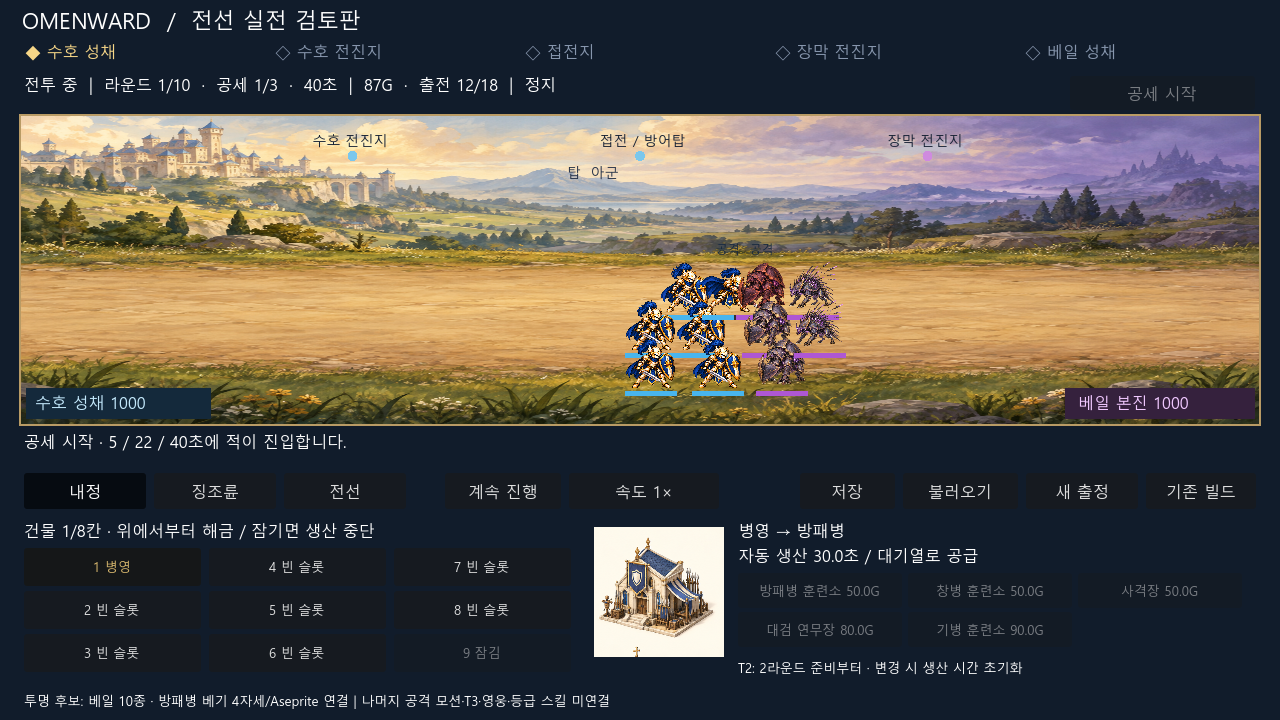
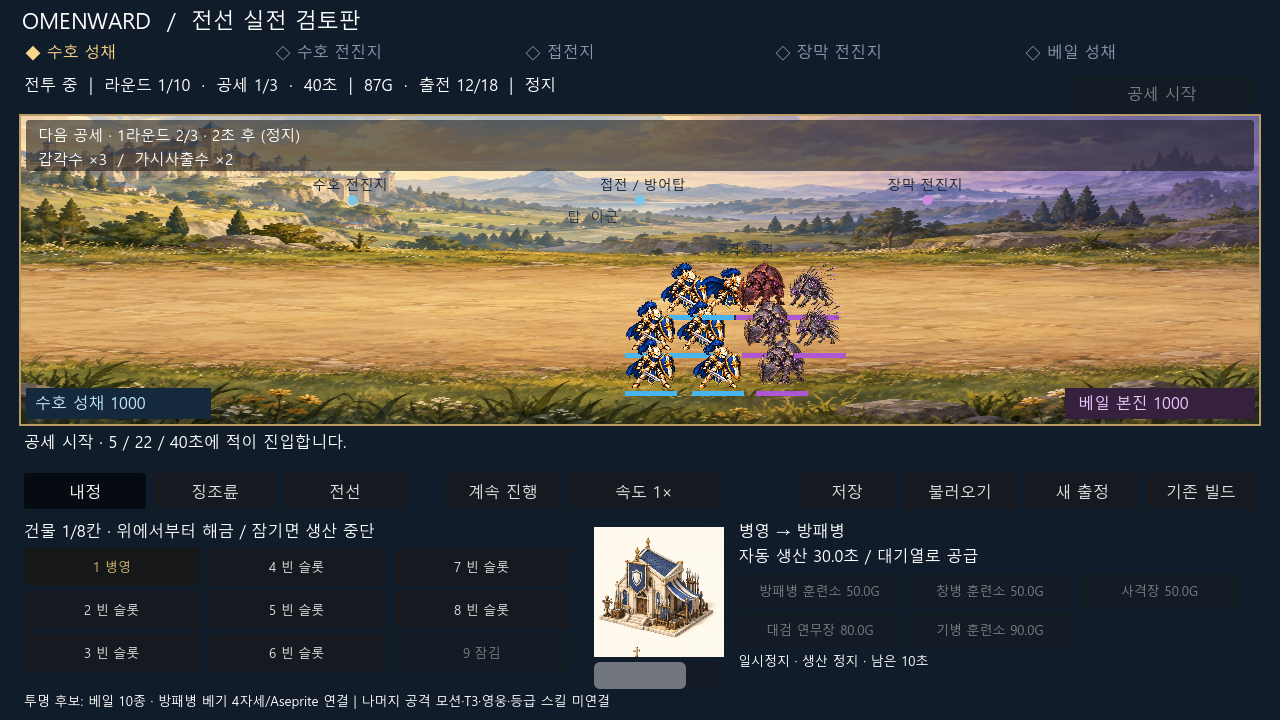
feat: expose actual wave forecast and facility production state

Changed region(s): [[0.0, 0.1528, 1.0, 0.275], [0.4375, 0.9167, 0.8125, 0.9778]]

diff --git a/docs/superpowers/plans/2026-09-11-visible-battle-slice.md b/docs/superpowers/plans/2026-09-11-visible-battle-slice.md
@@ -1,5 +1,34 @@
 # Visible battle and construction implementation plan
 
+## 2026-09-12 continuous improvement: forecast and supply observability
+
+Outcome: RED missing-query/UI checks preceded implementation; GREEN model 68/68, actual UI/save/default-scene gate, 109 selected existing contract tests and 12 scoped/alpha/motion tests. GPU 1280×720 capture: 19 damage events /16 units, shield windup/impact/recovery 3/3. Five-scope independent review found paused/terminal production wording; corrected and tested, including paused+locked substring regression. `git diff --check` clean. Base raw FAIL is the same eight approved runtime paths; project scoped BUILD PASS, not Base raw PASS. Full 559-test suite not rerun in this iteration; the historical `_base_recovery` fixture problem remains unverified. Human/device/accessibility/1920×1080/full-product NOT_RUN. Exact remote CI is checked after commit, not inferred from these local results.
+
+Next continuous unit: reproduce overlapping active soldiers at normal display size and improve combat readability without changing combat rules; then complete missing motion and blueprint/runtime gaps in bounded, researched units. No repeat approval for routine implementation; final art/core semantic decisions and protected integration remain distinct. This is not whole-game completion.
+
+Direction: keep the approved single-front / three-tab / time-limited-round loop; let players read actual incoming pressure and why a selected facility is not supplying units. Approval: latest user requested fresh Base read, benchmarking and implementation/improvement without routine reapproval. This is existing UI/production scope, not approval for unrelated PR absorption, release or core-rule replacement.
+
+Freshness: project implementation source47726ad79e0c49fffbee9b8b9ff2778d44137723; current-task PR259 remains stacked/draft, main and other PRs read-only. Base remote main d830c0f6 was fetched and its AGENTS, intake and continuous-work owners read. Its receipt/HiGodot/2-round-review policies are DRIFT_REFERENCE_ONLY; project v9.4.3 lock, scoped validator and explicit five-pass review are retained. No migration of adapter/generated contracts. Root planning checkout and historical three-front owners are COMPATIBILITY/history; this worktree's current context and actual preview consumer own implementation status. No age-based deletion.
+
+Work modes: PLAN benchmark/alternatives → BUILD existing FrontRun/FrontScreen queries and labels → REVIEW tests/render/readback. Project UX skill supplies the hypothesis: can players identify the next threat and explain why production is paused? Human task/think-aloud remains NOT_RUN; tests establish only correct displayed information.
+
+benchmark_preflight_state: PASS for this bounded UI improvement. Existing 12-game research and current actual consumer were compared before selecting new work. No reusable external system is needed: REUSE FrontRun clocks/catalog and Godot controls, ADAPT presentation. No cross-project code absorption or new plugin/framework.
+
+| Source and evidence (read2026-09-12) | Observed pattern | Project fit / disposition |
+|---|---|---|
+| https://media.gdcvault.com/gdc2019/presentations/Into%20the%20Breach%20Postmortem%20Final.pdf, pp13–17 text | Telegraphed attacks shape threat/response decisions | ADAPT actual upcoming wave preview; REJECT replacing real-time combat with fully deterministic grid turns. PDF text inspected, not full talk watched. Official homepage timeout was not substituted for body evidence. |
+| https://store.steampowered.com/app/2239150/Thronefall/ About | Build by day, defend by night; economy/defense trade-off | ADAPT clear preparation/production freeze feedback; REJECT kill-all night ending because user requires timed rounds. |
+| https://store.steampowered.com/app/2697930/Commander_Quest/ About | Deck/army synergy and covering weaknesses | ADAPT implemented role labels and troop capacity information; no claim to reproduce its proprietary systems. |
+| https://store.steampowered.com/app/4906570/Slotbound_Demo/ About | 3×3 summons feed an autobattler; absorption/evolution | REFERENCE_ONLY for summon-to-army readability; REJECT jackpot rescue/absorption as automatic additions. Demo marketing is not measured balance evidence. |
+| https://docs.godotengine.org/en/stable/classes/class_progressbar.html | Native percentage control and shared Range/Control behavior | ADOPT native progress bar bound to actual production clock, no bitmap progress decoration. |
+| https://www.aseprite.org/docs/frame-duration/ | Frame properties define duration | RETAIN shield native timing checks; static pose reuse is not newly drawn motion. |
+
+Three alternatives: (A) modal next-wave popup, clear but interrupts viewing/input; (B) permanent full army dashboard, rich but crowds1280×720; (C) compact shared two-line forecast plus selected-facility status. ADOPT C for lowest display cost, same game rules, easy removal, and no new save schema. Risk: incorrect future prediction; mitigation: read-only model query and equality test against actual spawned role counts. Risk: masking battlefield; mitigate upper strip outside soldier path. No game assets copied from references.
+
+Acceptance: preview first/next/refit waves and none after victory; queries do not mutate RNG/snapshot; production distinguishes producing/frozen/full/locked/empty; UI reads model each frame without recreating panels every clock tick; locked selected facility cannot appear upgradeable; save/production/combat regressions and native motion remain valid. Existing numeric data is unchanged. Blueprint's more elaborate per-wave variation remains unimplemented; preview intentionally tells the truth about current runtime, not a fictional future implementation.
+
+Learning: reuse existing catalog/clock owner for UI and verify against spawn behavior, rather than a second authored forecast table. Project-only lesson retained here; no Base promotion claimed. Rollback: revert this UI/query commit without touching saves, art, Base locks or other PRs.
+
 **Goal:** 사용자가 병영 건설 → 생산 → 출전 → 단일 전선 전투를 직접 확인한다.
 **Authority:** 2026-09-11 최신 사용자 ‘인게임에서 전투하는 거, 병종건설도 볼 수 있게. 이미지 연결’. 기존 기획-only 상태를 이 구간에 한해 supersede한다.
 **Spec:** `docs/design/OMENWARD_BLUEPRINT_BUILD_INPUT_20260911.json` 및 사람용 Blueprint v3.

diff --git a/docs/ACTIVE_CONTEXT.md b/docs/ACTIVE_CONTEXT.md
@@ -1,5 +1,7 @@
 # [현행] OMENWARD Active Context
 
+2026-09-12 지속 개선 1회차: 최신 Base remote d830c0f6를 비교했으며 채택 v9.4.3은 유지한다. 현재 공세 스폰 데이터에서 다음 병종/수량/시간을 읽는 공통 2줄 예보와 선택 병영 생산 진행·중단 사유를 연결했다. Into the Breach/Thronefall/Commander Quest/Slotbound 공식 자료의 ADOPT/ADAPT/REJECT는 기존 실행 계획이 소유한다. 모델68검사·화면/저장/기본 실행 PASS; 정지·종료·잠긴 건물 전문화 회귀 포함. Human/전체 제품 완료는 아니다. 후속 순서는 Roadmap 최신 블록을 따른다.
+
 2026-09-12 베기 연결: 기존 RGBA 원화의 네 병사 성분은 서로 겹치지 않아 개별 분리 후 768×768, 발 피벗(384,700)으로 평행이동했다. RGB/가시 픽셀 보존, native Aseprite 4프레임 및 PNG 정확 일치. 방패병 대기→준비180ms→베기100ms→복귀150ms를 실제 전투에 연결했고 준비 종료 때 살아 있는 동일 대상/사거리를 재검증해 1회 타격한다. 첫 타격에 준비 지연이 생기며 기존 피해량/공격 주기 수치는 유지한다. 모델55검사, 화면·저장·기본실행 PASS, 원화/출력2검사 PASS, GPU 자연 전투19damage/16units 및 준비·베기·복귀3상태 캡처 확인. 5회 전체 범위 독립 검토에서 차단 결함 없음. 아래 idle-only/모션 미연결은 이 방패병 범위에서 역사. 4자세 후보이며 이동·피격·사망/다른 병종 공격·최종 Human은 미완료. Aseprite 프레임 복제에 따른 겹침 실패본은 직접 삭제하지 않고 사용자 검토 폴더에 모은다. Base 원검사 FAIL / 한정 BUILD PASS와 부모 PR·main 통합 경계는 유지한다.
 
 2026-09-12 경계 후속: alpha 안쪽 0.5px 보정과 사제 발밑의 제한 영역 제거를 적용했다. 원본 RGB는 전부 유지, 제거된 1860픽셀은 검토한 발밑 영역 안이며 몸체/좌측 마법광 회귀를 추가했다. cutout 5개, scope 5개, Godot39/UI·저장 PASS, GPU19damage/16units 재검증. PNG/native Aseprite 왕복 동일. 여전히 사제 종이색 띠·내부 잔여·수평 절단 인상은 PARTIAL. 새 방패병 4자세 생성본은 RGB 체크무늬여서 runtime 미적용. 다음은 자세별 개별 제작→추출 검수→동일 피벗/시간→시트 조립→타격 연결이며 전체 시트 투명화 반복 요청은 중단한다. 삭제 검토 목록은 현재92개/139319809바이트, 직접 삭제 없음. 최신 자산 해시는 ROSTER_PROVENANCE가 소유한다.

diff --git a/docs/OMENWARD_ROADMAP.md b/docs/OMENWARD_ROADMAP.md
@@ -1,5 +1,7 @@
 # [현행] OMENWARD Roadmap
 
+2026-09-12 지속 개선: 실제 공세 예보·병영 생산 상태 표시 구현 및 기계 검증. 다음 안전 루프는 전투 유닛 겹침/가독성 재현→UI·배치 개선→실행 검증, 이어 남은 모션 상태군·기획 기능과 실제 구현 차이의 단위별 교정이다. 현재 1맵 검토판을 5맵·T3·등급·영웅 전체 구현으로 취급하지 않는다. 최신 사용자 위임에 따라 반복 기술 승인을 요구하지 않되 핵심 의미 변경·최종 후보 승인·타 PR 통합 경계는 유지한다.
+
 2026-09-12 방패병 베기 4자세 후보 runtime 연결 완료: 원화 성분 분리→공통 발 피벗→native/PNG 정합성→준비 후 단일 타격→저장 회귀→실제 GPU 3상태 캡처. 이 단계는 ASSET_READY/IMPLEMENTED/MACHINE_VERIFIED 및 해당 검토판 RUNTIME_VERIFIED이며 USER_APPROVED 아트·전체 모션은 아니다. 다음은 실제 크기에서 4자세 동작 품질 검토, 방패병 이동·피격·사망 및 베일/다른 병종 모션 확장이다. 베일 사제 종이색 잔여도 PARTIAL로 유지. 범위 밖 T3/영웅/등급/5맵 및 부모 PR·main 통합은 별도다.
 
 2026-09-12 경계 후속: 베일 alpha 경계/발밑 제한 보정과 회귀 검증 진행. 완전한 종이 배경 제거가 아니며 품질 PARTIAL. 방패병 전체 4자세 시트는 새 출력도 RGB 체크무늬로 실패했으므로 다음 제작 단위를 개별 자세로 축소한다. 한 자세의 추출·외형·피벗을 먼저 통과시킨 뒤 나머지 자세, Aseprite 시간/태그, 실제 타격 시점으로 진행한다. 새 모션 runtime 연결은 아직 없다.

diff --git a/docs/CURRENT_CONFIRMED_DECISIONS.md b/docs/CURRENT_CONFIRMED_DECISIONS.md
@@ -1,5 +1,7 @@
 # OMENWARD · Current Confirmed Decisions
 
+2026-09-12 최신 사용자: Base fresh-read 후 벤치마킹·실무조사→구현→검증→개선 루프를 일상적인 별도 승인 없이 계속 수행하도록 위임했다. 이번 적용은 기존 단일 전선 검토판 UI의 실제 공세 예보와 생산 상태 관측이다. 임의의 핵심 게임 의미 변경, 최종 아트/Human 승인, 다른 PR 흡수, main 직접 push 및 Base lock 교체로 확대하지 않는다. 정확한 조사·실행·잔여 작업은 기존 visible-battle-slice 계획이 소유한다.
+
 2026-09-12 ‘계속 진행/작업재개’: 기존 UI/투명 이미지/모션 한정 승인으로 방패병 4자세 분리·공통 피벗·Aseprite 조립·실제 베기 판정을 진행한다. 원화 재생성이 아니라 기존 후보의 손실 없는 분리이며 최종 아트/Human 승인으로 확대하지 않는다. exact 파일과 시간/판정 owner는 APPROVED_REPLAN_UI_MOTION_BUILD_SCOPE_20260911.md 및 front_run.gd다.
 
 2026-09-12 최신 사용자 승인: 로컬 배경 제거 도구 사용. 검증된 불필요 파일은 삭제하지 않고 별도 폴더에 원래 경로/해시/사유와 함께 모아 링크를 제공하며 사용자가 직접 삭제한다. 현재 사용 원본과 불확실한 사용자 파일은 보존한다. 베일 10종의 alpha-only 후보 연결은 현재 UI/투명 이미지 BUILD 범위이며 새 원화·완성 모션·최종 아트 승인으로 확대하지 않는다.
